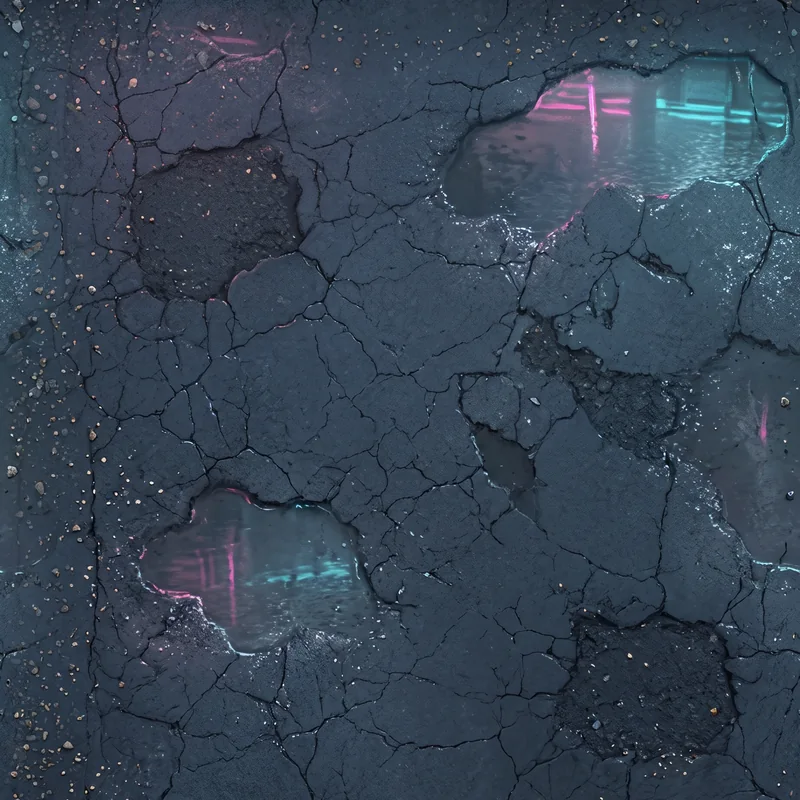
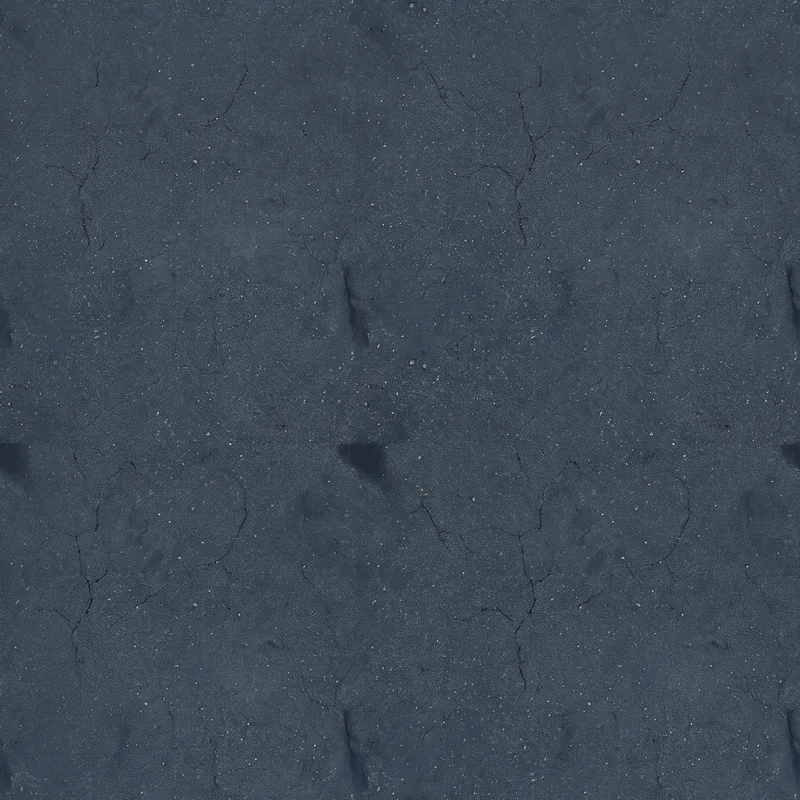
Round 389: finer road, pavement and rubble textures for the city
Claude-Session: https://claude.ai/code/session_01XB2RMCaJ1aVVtBjSNk3FhS

diff --git a/assets/chrono-gen.js b/assets/chrono-gen.js
@@ -323,7 +323,7 @@ const GEN_THEMES = {
     bossRooms: () => { const R = TILE_WORLD_DATA.chronospire.roles; return [R.boss, R.boss1, R.boss2, R.mini1, R.mini2]; }, landing: null,
     districtNames: ['clock', 'foundry', 'homes', 'ruins'], districts: CHRONO_DISTRICTS, landmarks: CHRONO_LANDMARKS, furniture: CHRONO_FURNITURE, clutter: CHRONO_CLUTTER, scale: CHRONO_SCENERY_SCALE, inlays: CHRONO_INLAYS,
     tex: {}, kerb: ['#1c1206', '#b88a3c', '#5a3f18'], holeRim: ['#8a6c3a', '#17100a'], bedRim: ['#07060f', '#4a3a2a'], yardRim: ['#14101f', '#6f6a86'], groundShade: 'rgba(8,6,24,.28)', lamp: '255,196,96', vignette: '6,4,18' },
-  city: { id: 'city', art: 'assets/environment/city-gen/', version: () => '388',
+  city: { id: 'city', art: 'assets/environment/city-gen/', version: () => '389',
     exits: key => { const r = typeof CITY_ROOMS !== 'undefined' && CITY_ROOMS[key]; if (!r) return null; const out = {}; for (const [d, v] of Object.entries(r.exits)) if (d.length === 1) out[d] = typeof v === 'string' ? v : v.to; return out; },
     world: key => { const [x, y] = key.split(',').map(Number); return [x, y - 4]; },
     bossRooms: () => Object.keys(CITY_ROOMS).filter(k => CITY_ROOMS[k].enemy && enemies[CITY_ROOMS[k].enemy[0]] && enemies[CITY_ROOMS[k].enemy[0]].boss),
@@ -333,7 +333,7 @@ const GEN_THEMES = {
     furniture: { lamp: [89, 200], bench: [173, 200], bollard: [156, 200] }, rename: { bollard: 'vending' },
     clutter: { car: [220, 141], dumpsters: [220, 143], crates: [220, 216], 'traffic-light': [218, 220], barrier: [200, 175] },
     scale: { building: 0.3, landmark: 0.4, lamp: 0.3, bench: 0.2, bollard: 0.2, clutter: 0.22 }, inlays: [],
-    tex: { pipes: 'overgrowth', chasm: 'water' }, kerb: ['#070b10', '#aebcc6', '#4d5a66'], holeRim: ['#5d6b76', '#05080c'], bedRim: ['#04070a', '#22331f'], yardRim: ['#0a0e14', '#8794a0'], groundShade: 'rgba(4,8,18,.2)', yardShade: 'rgba(8,14,28,.55)', round: 20, pavement: 34, grid: true, texScale: { floor: 0.45, yard: 0.4 },
+    tex: { pipes: 'overgrowth', chasm: 'water' }, kerb: ['#070b10', '#aebcc6', '#4d5a66'], holeRim: ['#5d6b76', '#05080c'], bedRim: ['#04070a', '#22331f'], yardRim: ['#0a0e14', '#8794a0'], groundShade: 'rgba(4,8,18,.2)', yardShade: 'rgba(8,14,28,.55)', round: 20, pavement: 34, grid: true, texScale: { floor: 0.8, yard: 0.5, ground: 0.7 },
     // Owner: "water should be only on the edges with an occasional pond": a ragged band round the edge of the city's
     // 9x6 rooms, and a rare pond inland.
     hole: (seed, gx, gy) => { const d = Math.min(gx, 9 * CG_COLS - 1 - gx, gy, 6 * CG_ROWS - 1 - gy); return d < 0.6 + chronoNoise(seed, 'shore', gx, gy, 5) * 3.4 || chronoNoise(seed, 'pond', gx, gy, 4) > 0.9; },

diff --git a/index.html b/index.html
@@ -577,7 +577,7 @@ requestAnimationFrame(loop);
 <script src="assets/vespera-data.js?v=round232"></script>
 <script src="assets/chronospire-data.js?v=round232"></script>
 <script src="assets/tile-worlds.js?v=round379"></script>
-<script src="assets/chrono-gen.js?v=round388"></script>
+<script src="assets/chrono-gen.js?v=round389"></script>
 <script src="assets/world-cards.js?v=round210"></script>
 <script src="assets/world-mechanics.js?v=round278"></script>
 <script src="assets/stagger.js?v=round189"></script>

diff --git a/tools/prepare_chrono_gen.py b/tools/prepare_chrono_gen.py
@@ -32,7 +32,7 @@ SHEETS = {  # draft id -> names (left to right, top to bottom), long side px
 # Round 387: Neon Aftermath's set, for the same generator (python3 tools/prepare_chrono_gen.py <folder> city).
 WORLDS = {'city': {
     'out': 'assets/environment/city-gen',
-    'textures': {'floor': '1pi1qk', 'overgrowth': '549k97', 'yard': 'ijwi57', 'ground': 'pch07g', 'water': 'vkvpou'},
+    'textures': {'floor': '5uo2m3', 'overgrowth': '549k97', 'yard': 'k7s1hd', 'ground': 'wd498u', 'water': 'vkvpou'},  # Round 389: finer road, pavement and rubble
     'sheets': {
         '4m9l9k': (['lamp', 'vending', 'barrier', 'bench'], 200),
         'op0e6t': (['car', 'dumpsters', 'crates', 'traffic-light'], 220),
